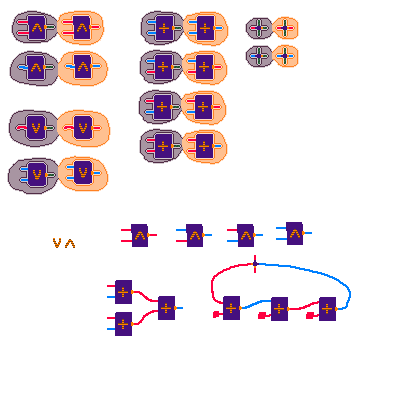
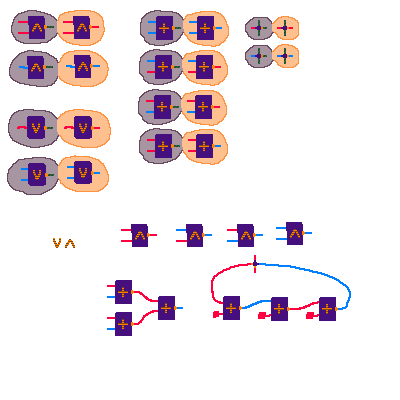
Alternative rule effect, border to transparent
Actual content of the rule is easier to see, but the effect only works if the
exterior is transparent.

diff --git a/src/material_effects.rs b/src/material_effects.rs
@@ -11,6 +11,19 @@ enum BorderClass {
     Inside,
 }
 
+const NEIGHBORS_8: [Point<i64>; 8] = [
+    Point(-1, -1),
+    Point(-1, 0),
+    Point(-1, 1),
+    Point(0, 1),
+    Point(1, 1),
+    Point(1, 0),
+    Point(1, -1),
+    Point(0, -1),
+];
+
+// const NEIGHBORS_4: [Point<i64>; 4] = [Point(-1, 0), Point(0, 1), Point(1, 0), Point(0, -1)];
+
 /// Classify where `pixel` lies in an area defined by the `area` predicate. Assumes `area(pixel)`.
 fn border_class(pixel: Point<i64>, mut area: impl FnMut(Point<i64>) -> bool) -> BorderClass {
     // const GAP_NEIGHBORS: [Point<i64>; 4] = [Point(-1, 0), Point(0, 1), Point(1, 0), Point(0, -1)];
@@ -25,16 +38,8 @@ fn border_class(pixel: Point<i64>, mut area: impl FnMut(Point<i64>) -> bool) -> 
     //     Point(-1, -1),
     // ];
 
-    const GAP_NEIGHBORS: [Point<i64>; 8] = [
-        Point(-1, -1),
-        Point(-1, 0),
-        Point(-1, 1),
-        Point(0, 1),
-        Point(1, 1),
-        Point(1, 0),
-        Point(1, -1),
-        Point(0, -1),
-    ];
+    const GAP_NEIGHBORS: [Point<i64>; 8] = NEIGHBORS_8;
+
     const BORDER_NEIGHBORS: [Point<i64>; 16] = [
         Point(-2, -2),
         Point(-2, -1),
@@ -69,6 +74,40 @@ fn border_class(pixel: Point<i64>, mut area: impl FnMut(Point<i64>) -> bool) -> 
     }
 }
 
+// /// Border and gap
+// pub fn rule_effect(material_map: &MaterialMap, pixel: Point<i64>, material: Material) -> Rgba8 {
+//     // Border with gap effect
+//     let border_class = border_class(pixel, |neighbor| match material_map.get(neighbor) {
+//         None => false,
+//         Some(material) => material.is_rule(),
+//     });
+//     let alpha = match border_class {
+//         BorderClass::Border => Material::RULE_BORDER_ALPHA,
+//         BorderClass::Gap => Material::RULE_GAP_ALPHA,
+//         BorderClass::Inside => Material::RULE_INTERIOR_ALPHA,
+//     };
+//
+//     Rgba8::from_rgb_a(material.rgb, alpha)
+// }
+
+/// Border to transparent color
+pub fn rule_effect(material_map: &MaterialMap, pixel: Point<i64>, material: Material) -> Rgba8 {
+    let is_border = NEIGHBORS_8.into_iter().any(|neighbor_offset| {
+        match material_map.get(pixel + neighbor_offset) {
+            None => true,
+            Some(neighbor_material) => neighbor_material == Material::TRANSPARENT,
+        }
+    });
+
+    let alpha = if is_border {
+        Material::RULE_BORDER_ALPHA
+    } else {
+        Material::RULE_INTERIOR_ALPHA
+    };
+
+    Rgba8::from_rgb_a(material.rgb, alpha)
+}
+
 /// Convert Material to Rgba8 using effects for rule and solid areas
 pub fn material_effect(material_map: &MaterialMap, pixel: Point<i64>) -> Rgba8 {
     let material = material_map.get(pixel).unwrap();
@@ -82,20 +121,7 @@ pub fn material_effect(material_map: &MaterialMap, pixel: Point<i64>) -> Rgba8 {
                 material.solid_alt_rgba()
             }
         }
-        MaterialClass::Rule => {
-            // Border with gap effect
-            let border_class = border_class(pixel, |neighbor| match material_map.get(neighbor) {
-                None => false,
-                Some(material) => material.is_rule(),
-            });
-            let alpha = match border_class {
-                BorderClass::Border => Material::RULE_BORDER_ALPHA,
-                BorderClass::Gap => Material::RULE_GAP_ALPHA,
-                BorderClass::Inside => Material::RULE_INTERIOR_ALPHA,
-            };
-
-            Rgba8::from_rgb_a(material.rgb, alpha)
-        }
+        MaterialClass::Rule => rule_effect(material_map, pixel, material),
         MaterialClass::Wildcard => {
             // alternating diagonal lines effect
             if (pixel.x + pixel.y) % 3 == 0 {
